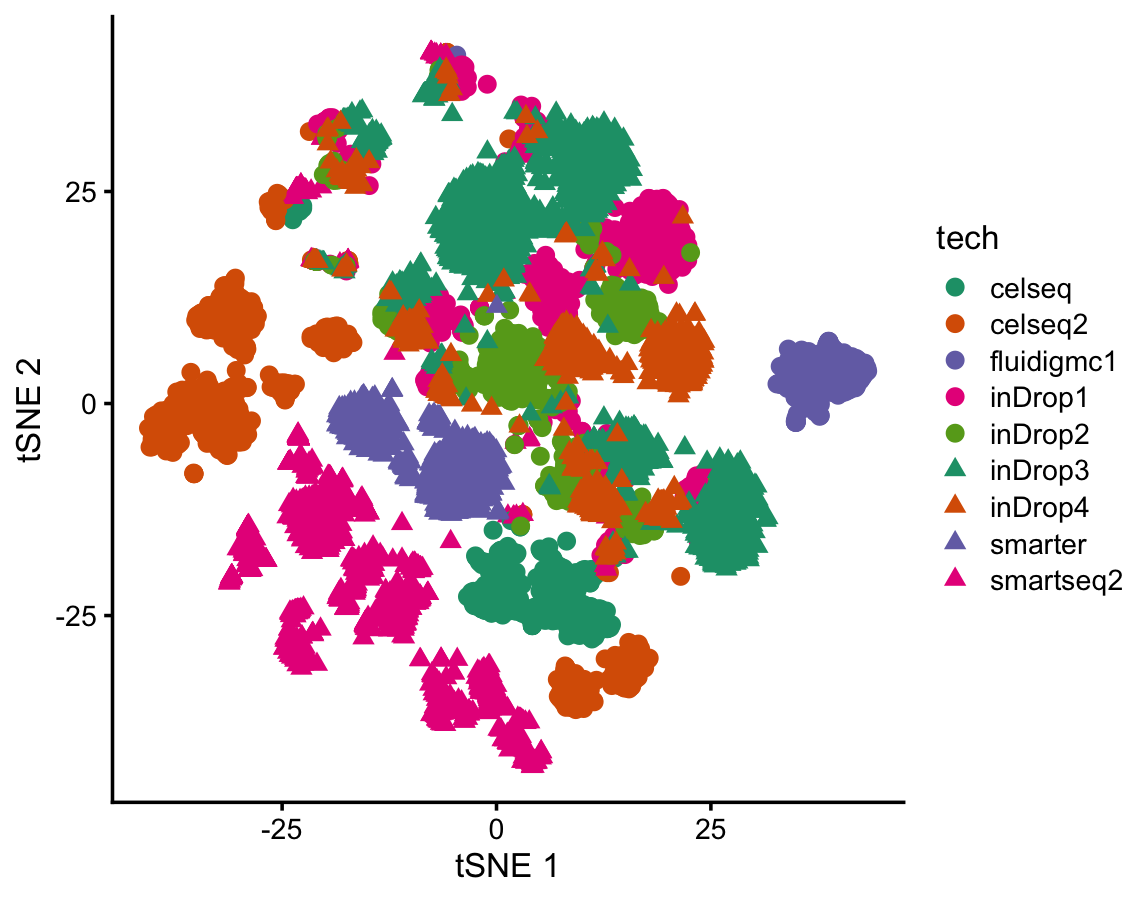
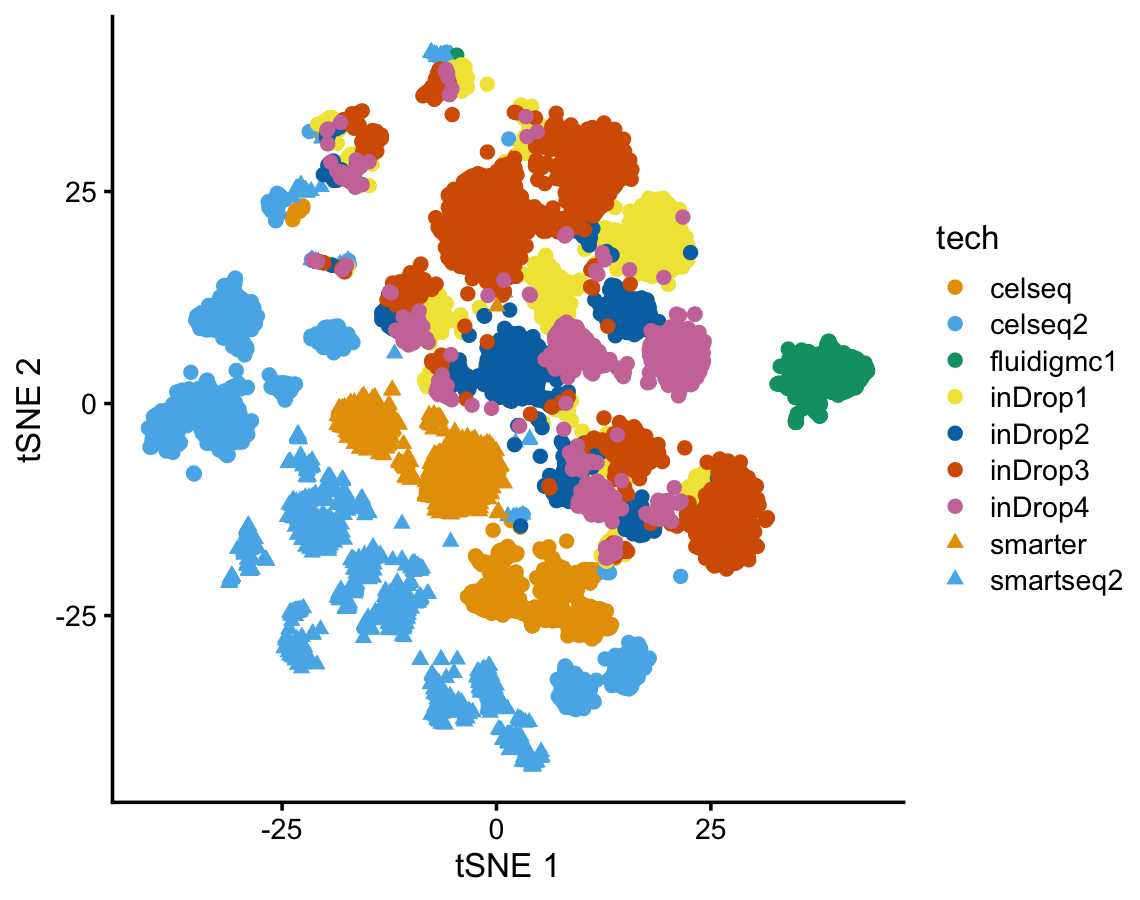
Switched from umap to tsne in the pancreas analysis.

Changed region(s): [[0.1228, 0.0311, 0.7061, 0.8711], [0.8289, 0.3111, 0.8596, 0.6533], [0.6754, 0.3733, 0.7675, 0.4978]]

diff --git a/docs/pancreas.html b/docs/pancreas.html
@@ -433,15 +433,15 @@ project makes it easier to run your code on other machines.</p>
 <div class="panel panel-default">
 <div class="panel-heading">
 <p class="panel-title">
-<a data-toggle="collapse" data-parent="#workflowr-checks" href="#strongRepositoryversionstrongahrefhttpsgithubcomstephenslabsinglecelljamboreetreea8ffa99b330febbbfde407c468093ea329924fd5targetblanka8ffa99a">
+<a data-toggle="collapse" data-parent="#workflowr-checks" href="#strongRepositoryversionstrongahrefhttpsgithubcomstephenslabsinglecelljamboreetreefca056b6dd4c29da4c05118c6956d2e99a3a4a7ftargetblankfca056ba">
 <span class="glyphicon glyphicon-ok text-success"
 aria-hidden="true"></span> <strong>Repository version:</strong>
-<a href="https://github.com/stephenslab/single-cell-jamboree/tree/a8ffa99b330febbbfde407c468093ea329924fd5" target="_blank">a8ffa99</a>
+<a href="https://github.com/stephenslab/single-cell-jamboree/tree/fca056b6dd4c29da4c05118c6956d2e99a3a4a7f" target="_blank">fca056b</a>
 </a>
 </p>
 </div>
 <div
[2 lines of base64/hex data omitted]
 class="panel-collapse collapse">
 <div class="panel-body">
 <p>
@@ -451,7 +451,7 @@ reproducibility.
 </p>
 <p>
 The results in this page were generated with repository version
-<a href="https://github.com/stephenslab/single-cell-jamboree/tree/a8ffa99b330febbbfde407c468093ea329924fd5" target="_blank">a8ffa99</a>.
+<a href="https://github.com/stephenslab/single-cell-jamboree/tree/fca056b6dd4c29da4c05118c6956d2e99a3a4a7f" target="_blank">fca056b</a>.
 See the <em>Past versions</em> tab to see a history of the changes made
 to the R Markdown and HTML files.
 </p>
@@ -465,10 +465,8 @@ depends on. Below is the status of the Git repository when the results
 were generated:
 </p>
 <pre><code>
-Ignored files:
-    Ignored:    analysis/figure/
-
 Untracked files:
+    Untracked:  analysis/pancreas.RData
     Untracked:  data/Immune_ALL_human.h5ad
     Untracked:  data/human_pancreas_norm_complexBatch.h5ad
     Untracked:  data/pancreas.RData
@@ -520,6 +518,40 @@ Message
 </tr>
 </thead>
 <tbody>
+<tr>
+<td>
+Rmd
+</td>
+<td>
+<a href="https://github.com/stephenslab/single-cell-jamboree/blob/fca056b6dd4c29da4c05118c6956d2e99a3a4a7f/analysis/pancreas.Rmd" target="_blank">fca056b</a>
+</td>
+<td>
+Peter Carbonetto
+</td>
+<td>
+2024-10-31
+</td>
+<td>
+workflowr::wflow_publish("pancreas.Rmd", verbose = TRUE, view = FALSE)
+</td>
+</tr>
+<tr>
+<td>
+html
+</td>
+<td>
+<a href="https://rawcdn.githack.com/stephenslab/single-cell-jamboree/833a14700f5838094e0086f2d237026a880103c7/docs/pancreas.html" target="_blank">833a147</a>
+</td>
+<td>
+Peter Carbonetto
+</td>
+<td>
+2024-10-31
+</td>
+<td>
+Build site.
+</td>
+</tr>
 <tr>
 <td>
 Rmd
@@ -844,6 +876,17 @@ Date
 <tbody>
 <tr>
 <td>
+<a href="https://github.com/stephenslab/single-cell-jamboree/blob/833a14700f5838094e0086f2d237026a880103c7/docs/figure/pancreas.Rmd/size-factors-1.png" target="_blank">833a147</a>
+</td>
+<td>
+Peter Carbonetto
+</td>
+<td>
+2024-10-31
+</td>
+</tr>
+<tr>
+<td>
 <a href="https://github.com/stephenslab/single-cell-jamboree/blob/fed31e6dbf128b29037d0085f9e21eb008ea58c8/docs/figure/pancreas.Rmd/size-factors-1.png" target="_blank">fed31e6</a>
 </td>
 <td>
@@ -894,6 +937,17 @@ Date
 <tbody>
 <tr>
 <td>
+<a href="https://github.com/stephenslab/single-cell-jamboree/blob/833a14700f5838094e0086f2d237026a880103c7/docs/figure/pancreas.Rmd/gene-expression-levels-2-1.png" target="_blank">833a147</a>
+</td>
+<td>
+Peter Carbonetto
+</td>
+<td>
+2024-10-31
+</td>
+</tr>
+<tr>
+<td>
 <a href="https://github.com/stephenslab/single-cell-jamboree/blob/fed31e6dbf128b29037d0085f9e21eb008ea58c8/docs/figure/pancreas.Rmd/gene-expression-levels-2-1.png" target="_blank">fed31e6</a>
 </td>
 <td>
@@ -923,12 +977,12 @@ U &lt;- rsvd(Y,k = 50)$u</code></pre>
 sample_info$tsne1 &lt;- tsne$Y[,1]
 sample_info$tsne2 &lt;- tsne$Y[,2]</code></pre>
 <p><em>t</em>-SNE with cells colored by cell-type:</p>
-<pre class="r"><code>tsne_colors &lt;- rep(c(&quot;#1b9e77&quot;,&quot;#d95f02&quot;,&quot;#7570b3&quot;,&quot;#e7298a&quot;,&quot;#66a61e&quot;),
-                   times = 3)
-tsne_shapes &lt;- rep(c(19,17,8),each = 5)
+<pre class="r"><code>tsne_colors &lt;- rep(c(&quot;#E69F00&quot;,&quot;#56B4E9&quot;,&quot;#009E73&quot;,&quot;#F0E442&quot;,
+                     &quot;#0072B2&quot;,&quot;#D55E00&quot;,&quot;#CC79A7&quot;),times = 2)
+tsne_shapes &lt;- rep(c(19,17),each = 7)
 ggplot(sample_info,aes(x = tsne1,y = tsne2,color = celltype,
                        shape = celltype)) +
-  geom_point(size = 2) +
+  geom_point(size = 1.5) +
   scale_color_manual(values = tsne_colors) +
   scale_shape_manual(values = tsne_shapes) +
   labs(x = &quot;tSNE 1&quot;,y = &quot;tSNE 2&quot;) + 
@@ -958,6 +1012,17 @@ Date
 <tbody>
 <tr>
 <td>
+<a href="https://github.com/stephenslab/single-cell-jamboree/blob/833a14700f5838094e0086f2d237026a880103c7/docs/figure/pancreas.Rmd/umap-vs-cell-type-1.png" target="_blank">833a147</a>
+</td>
+<td>
+Peter Carbonetto
+</td>
+<td>
+2024-10-31
+</td>
+</tr>
+<tr>
+<td>
 <a href="https://github.com/stephenslab/single-cell-jamboree/blob/25f389a7a147366e9fb9f71c43de7664c5e03611/docs/figure/pancreas.Rmd/umap-vs-cell-type-1.png" target="_blank">25f389a</a>
 </td>
 <td>
@@ -973,7 +1038,7 @@ Peter Carbonetto
 </div>
 <p><em>t</em>-SNE with cells colored by batch:</p>
 <pre class="r"><code>ggplot(sample_info,aes(x = tsne1,y = tsne2,color = tech,shape = tech)) +
-  geom_point(size = 2) +
+  geom_point(size = 1.5) +
   scale_color_manual(values = tsne_colors) +
   scale_shape_manual(values = tsne_shapes) +
   labs(x = &quot;tSNE 1&quot;,y = &quot;tSNE 2&quot;) + 
@@ -1003,6 +1068,17 @@ Date
 <tbody>
 <tr>
 <td>
+<a href="https://github.com/stephenslab/single-cell-jamboree/blob/833a14700f5838094e0086f2d237026a880103c7/docs/figure/pancreas.Rmd/umap-vs-batch-1.png" target="_blank">833a147</a>
+</td>
+<td>
+Peter Carbonetto
+</td>
+<td>
+2024-10-31
+</td>
+</tr>
+<tr>
+<td>
 <a href="https://github.com/stephenslab/single-cell-jamboree/blob/25f389a7a147366e9fb9f71c43de7664c5e03611/docs/figure/pancreas.Rmd/umap-vs-batch-1.png" target="_blank">25f389a</a>
 </td>
 <td>
@@ -1017,7 +1093,7 @@ Peter Carbonetto
 </div>
 </div>
 <p>Both batch and cell-type contribute to structure in the data.</p>
-<p>Finally, save the data and t-SNE results in an .Rdata file for more
+<p>Finally, save the data and t-SNE results to an .Rdata file for more
 convenient analysis in R:</p>
 <pre class="r"><code>save(list = c(&quot;sample_info&quot;,&quot;counts&quot;),file = &quot;pancreas.RData&quot;)
 resaveRdaFiles(&quot;pancreas.RData&quot;)</code></pre>
